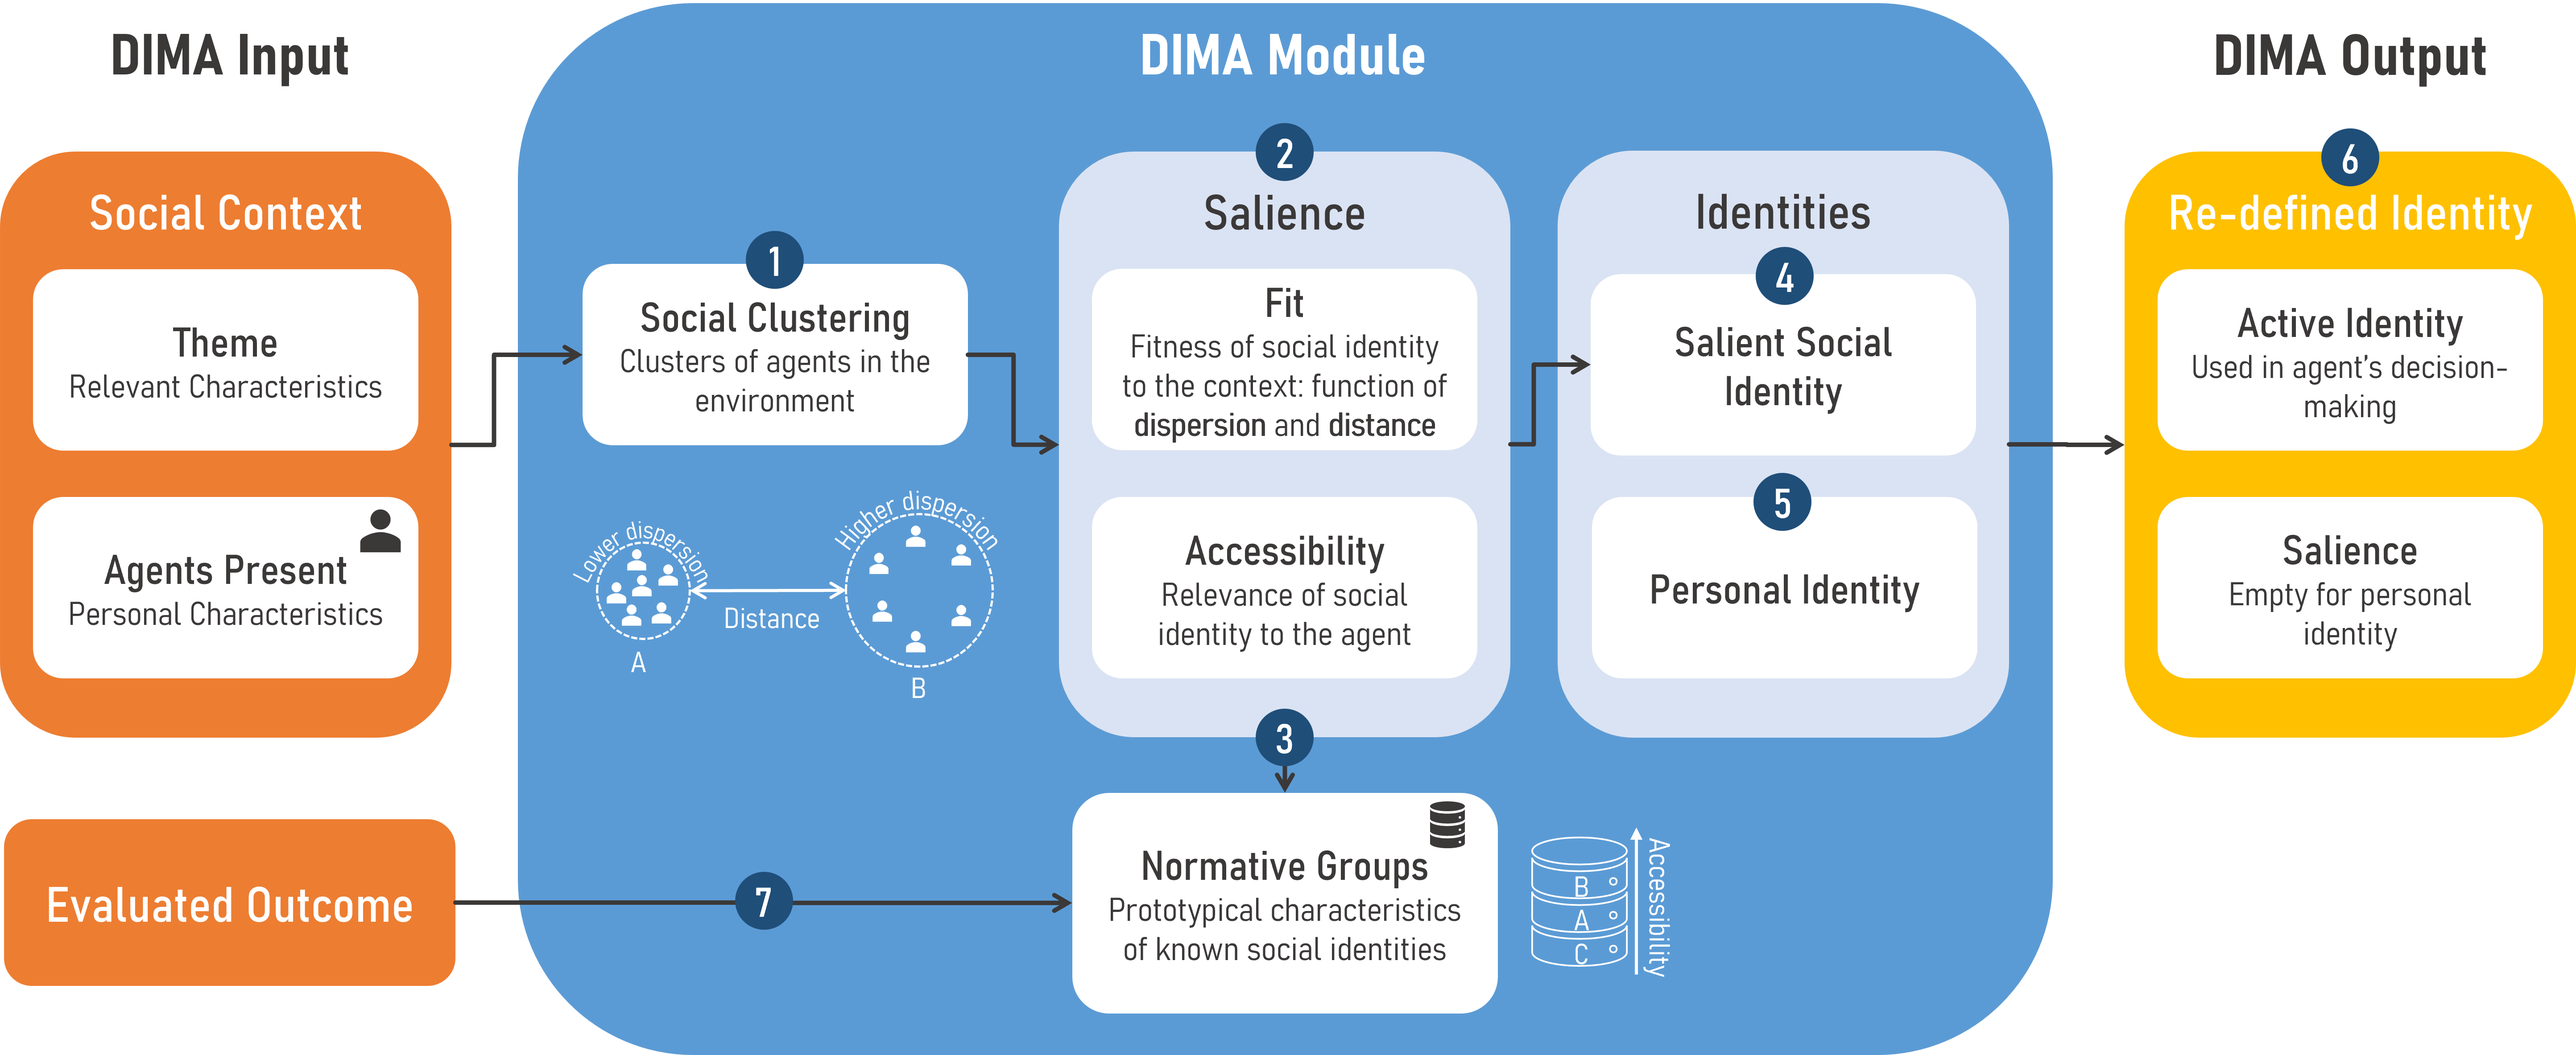
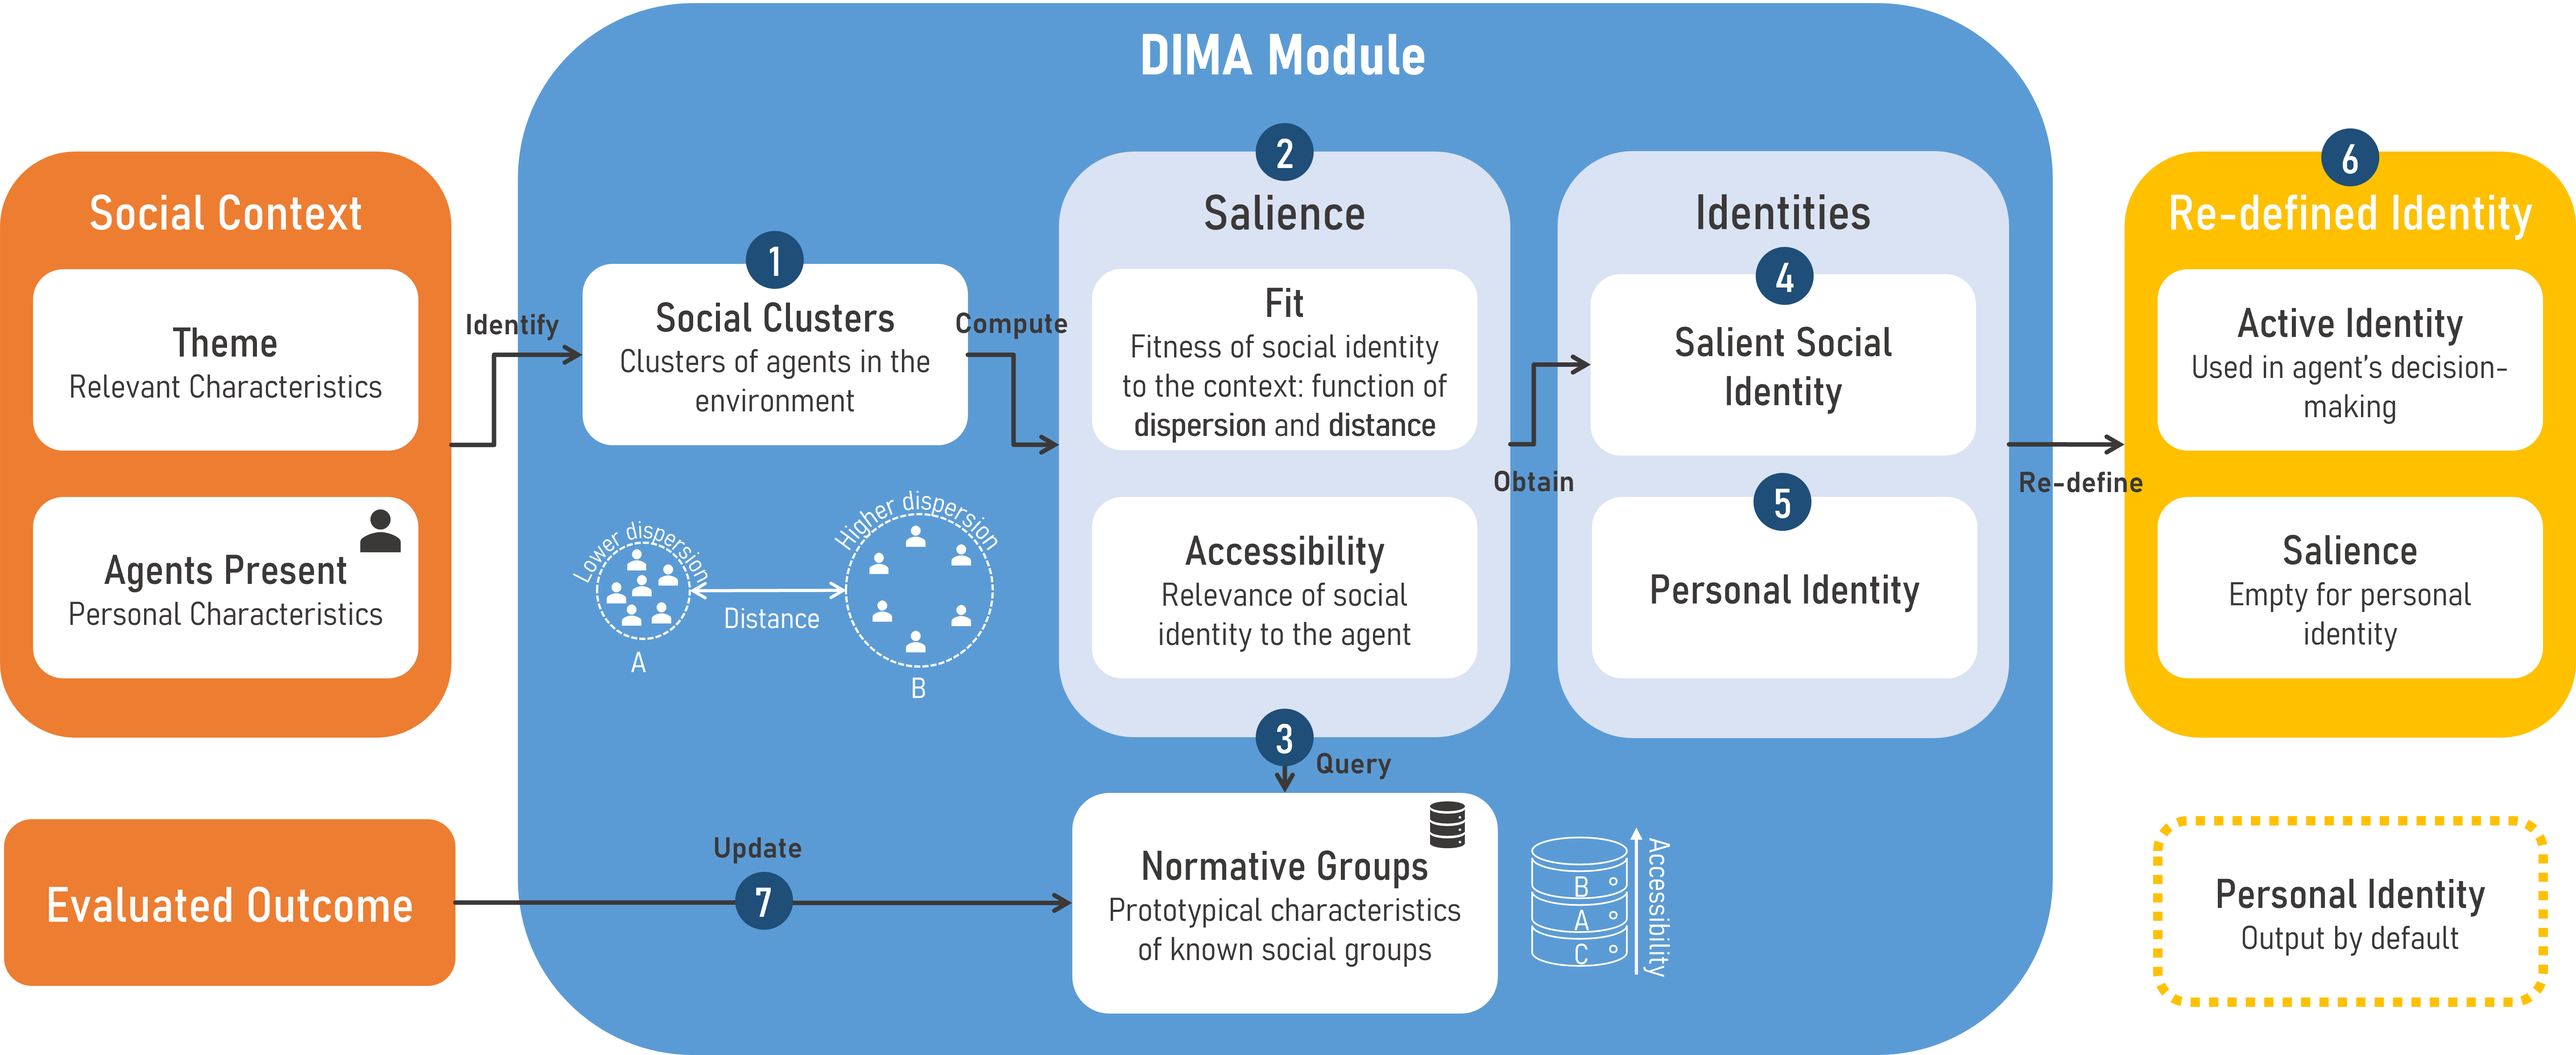
Changes Jupyter Notebook and README

diff --git a/README.md b/README.md
@@ -1,9 +1,19 @@
 # Dynamic Identity Model For Agents
 
-The Dynamic Identity Model for Agents is an agent-based model grounded on the Social Identity Approach that provides agents with context-dependent identities. In this repository, you can find a Jupyter Notebook of this model, explaining it step-by-step. An outline on how to embed this model in a standard social agent architecture is also given in this notebook. We are in the process of adding the corresponding Python application of the model as well. Moreover, we propose a use case based on an economic game simulation, the Dictator Game, to explore the impact of our model in the identities, behaviour and performance of agents, which you can find in an additional Jupyter Notebook.
+The Dynamic Identity Model for Agents (DIMA) is grounded on the Social Identity Approach (SIA), aiming to provide agents with multi-faceted and context-dependent identities. At the core of the model is the identity salience mechanism, which uses agents’ perceived information regarding their social environment to determine the salience of social identities. Agents can then redefine their identities as unique individuals (personal identity) or as members of a social group (social identity). Consequently, each agent’s active identity will regulate their decisions in a given situation. This model can be integrated in a standard social agent architecture with a perception and decision-making modules.
 
-# DIMA Architecture
-<img src="https://raw.githubusercontent.com/GAIPS/dynamic-identity-model-for-agents/main/JupyterNotebook/DIMA_figures/dima.png" alt="architecture" width=600>
+More details about the model formalization and implementation can be found in the <i>JupyterNotebook</i> folder, in the <i>DynamicIdentityModelForAgents.ipynb</i> file. In addition, this folder also contains a file that shows how to configure DIMA for a specific simulation scenario, the <i>DIMA_DictatorGame.ipynb</i> file, in which several Dictator Game experiments were executed. The plots resulting from these experiments can be found in <i>JupyterNotebook/DIMA_plots</i> (<b>Note</b>: in a recent update, we changed the code to add markers to the scenario plots in case plot lines overlapped). 
 
-# DIMA Setup
-<img src="https://raw.githubusercontent.com/GAIPS/dynamic-identity-model-for-agents/main/JupyterNotebook/DIMA_figures/dimaModel_agentElements.png" alt="architecture" width=600>
+# DIMA Process Diagram
+<img src="https://github.com/GAIPS/dynamic-identity-model-for-agents/blob/main/JupyterNotebook/DIMA_figures/dima.png?raw=true" width=600>
+
+# DIMA Integration in Social Agent Architecture
+<img src="https://github.com/GAIPS/dynamic-identity-model-for-agents/blob/main/JupyterNotebook/DIMA_figures/dimaModel_agentElements.png?raw=true" width=600>
+
+# Getting Started
+- Learning about the model and playing with the scenario
+1. Download or clone this repository
+2. If you're not familiar with Jupyter Notebook, follow this tutorial: https://www.dataquest.io/blog/jupyter-notebook-tutorial/
+3. Explore the Jupyter Notebook files (run the scenario, change parameters, understand the formalization, and so on)
+
+As a final remark, we also provide a Python implementation of the model, in case one would like to include DIMA's identity salience mechanism in their own model and, consequently, enhance their agents' realism. Before using/changing this Python application, we advise you to clearly understand the model formalization and setup, given the Jupyter Notebook step-by-step explanation.
